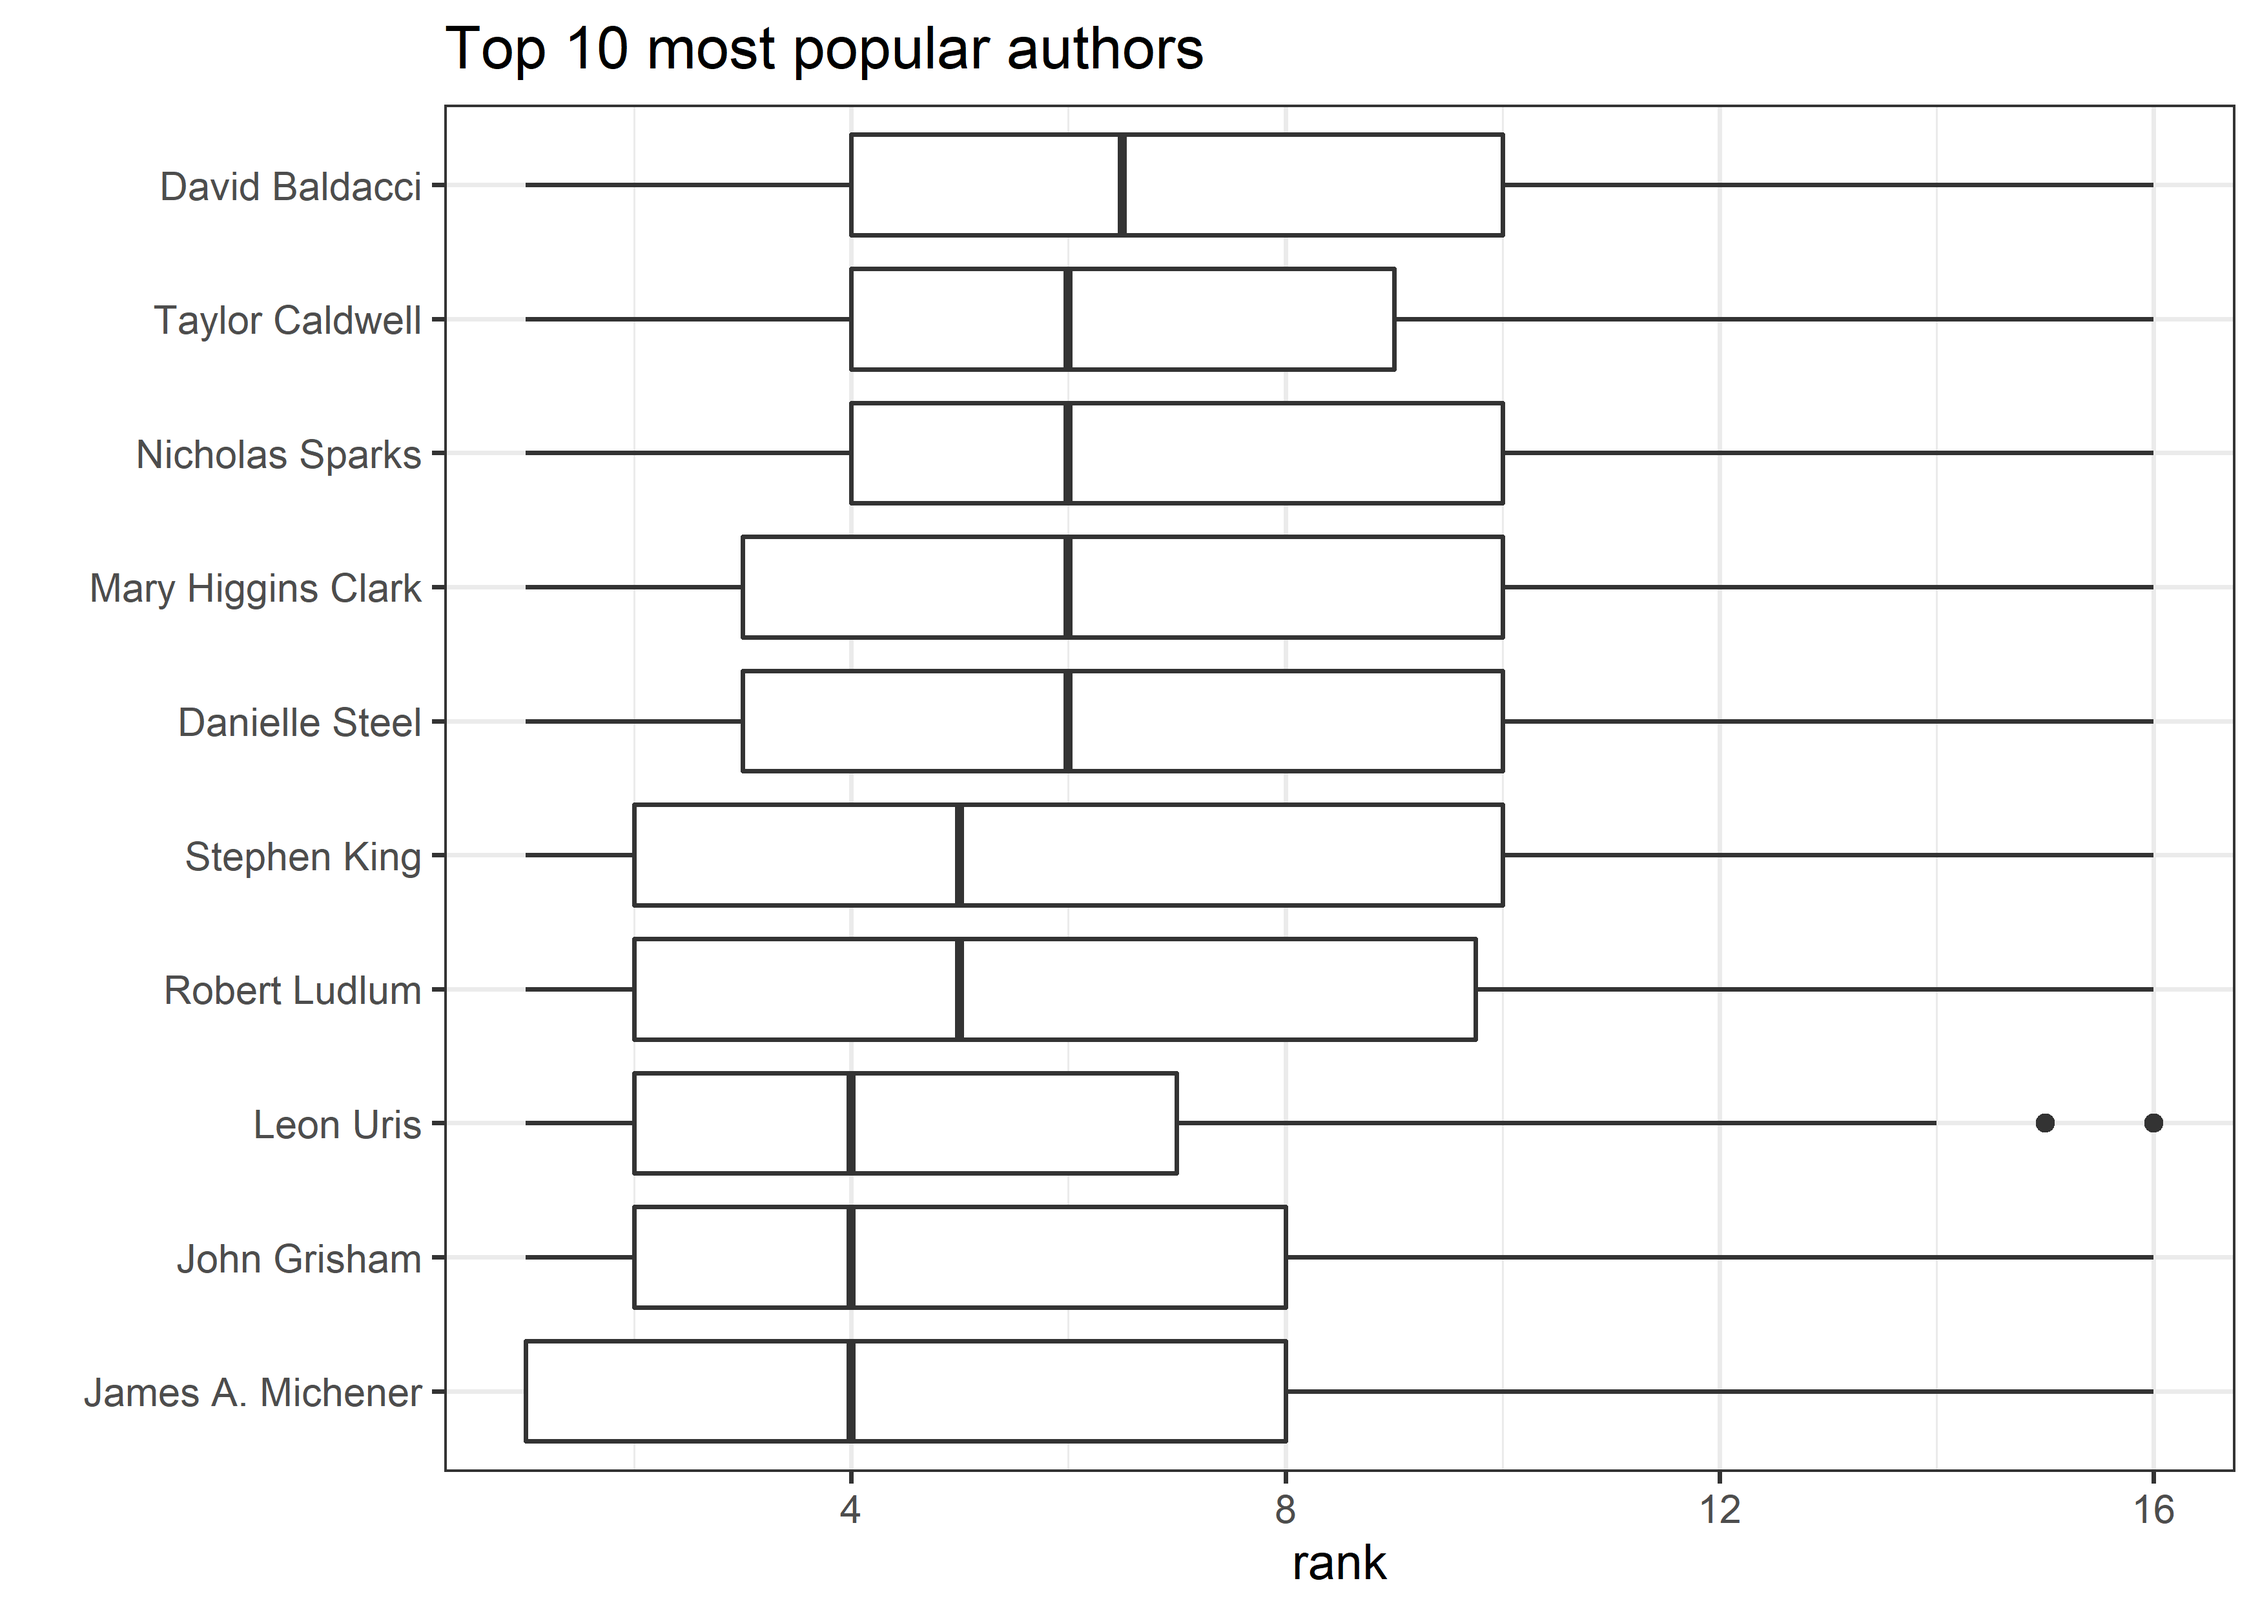
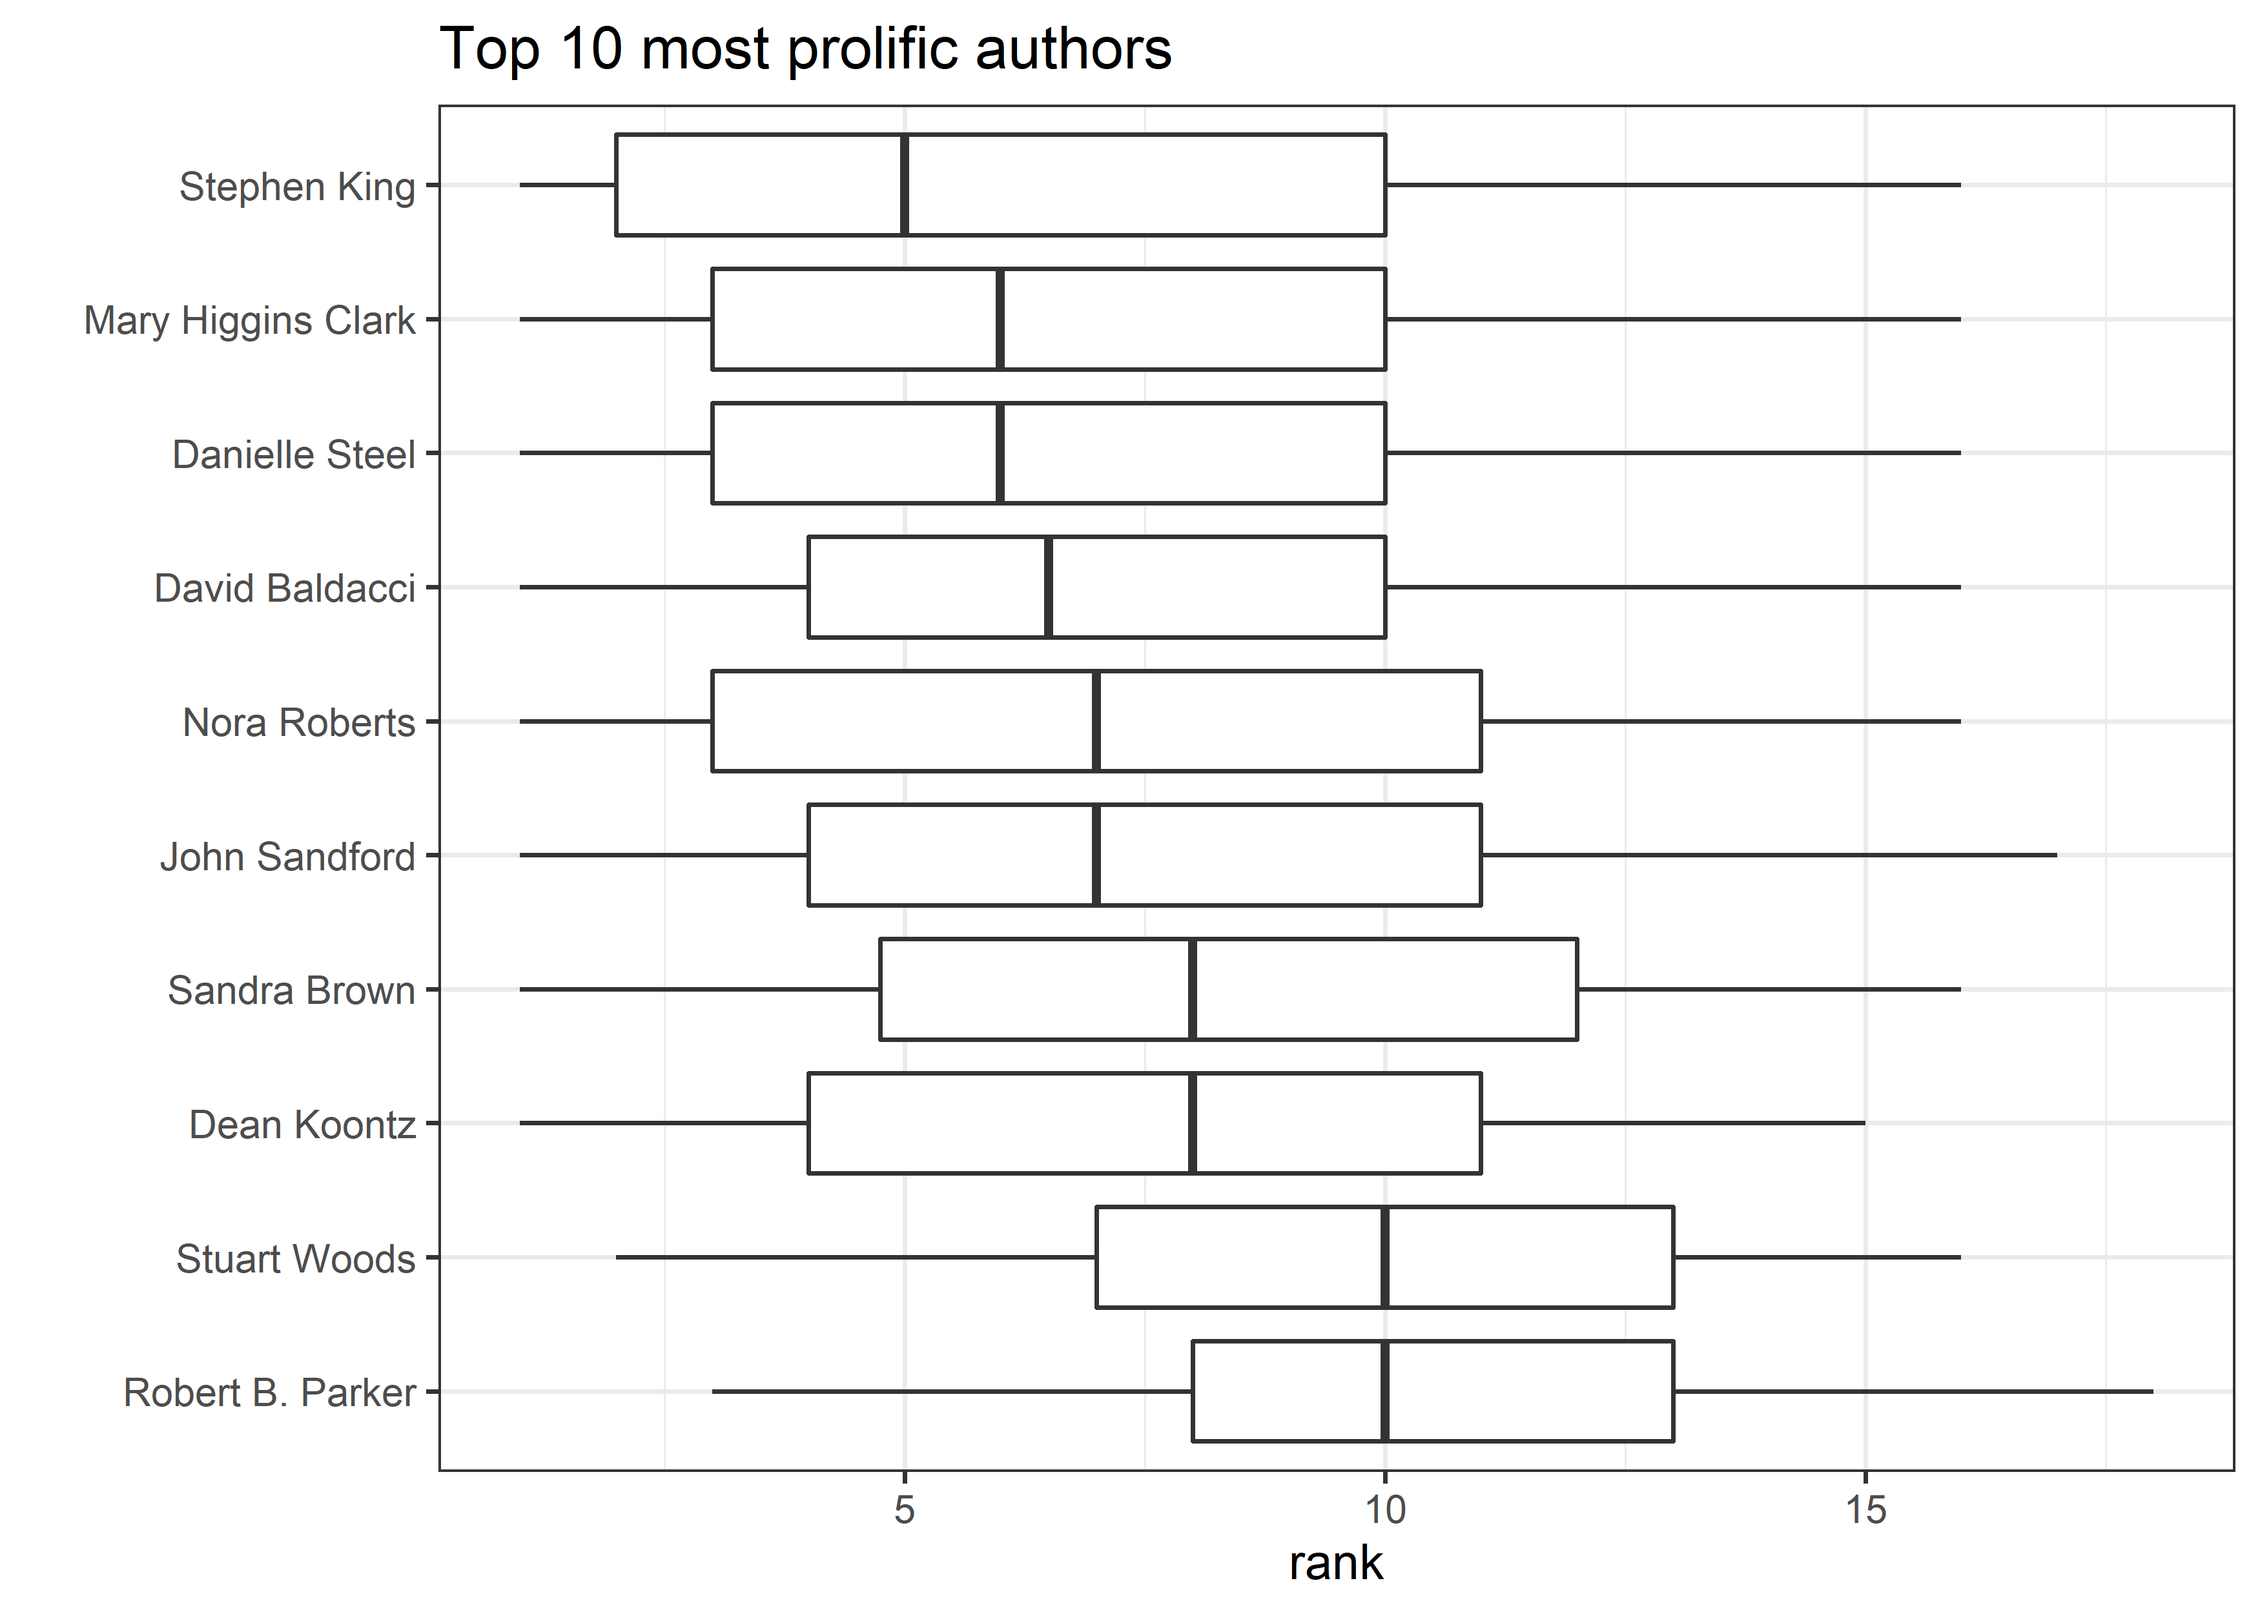
Correction on first plot, most 'prolific' instead.

diff --git a/05-10-22/NYT-Best-Sellers.md b/05-10-22/NYT-Best-Sellers.md
@@ -60,10 +60,17 @@ nyt %>%
 
 ``` r
 nyt %>% 
-  filter(author %in% (nyt %>% count(author, sort = TRUE) %>% head(10) %>% pull(author))) %>% 
+  filter(author %in% 
+    (nyt %>% 
+    group_by(author) %>% 
+    distinct(title) %>% 
+    summarize(n = n()) %>% 
+    arrange(-n) %>% 
+    head(10) %>% 
+    pull(author))) %>% 
   group_by(author) %>% 
-  ggplot(aes(rank, fct_reorder(author, rank, median))) + geom_boxplot() + 
-  labs(y = "", title = "Top 10 most popular authors")
+  ggplot(aes(rank, fct_reorder(author, rank, median, .desc = TRUE))) + geom_boxplot() + 
+  labs(y = "", title = "Top 10 most prolific authors")
 ```
 
 ![](NYT-Best-Sellers_files/figure-gfm/unnamed-chunk-2-1.png)<!-- -->
